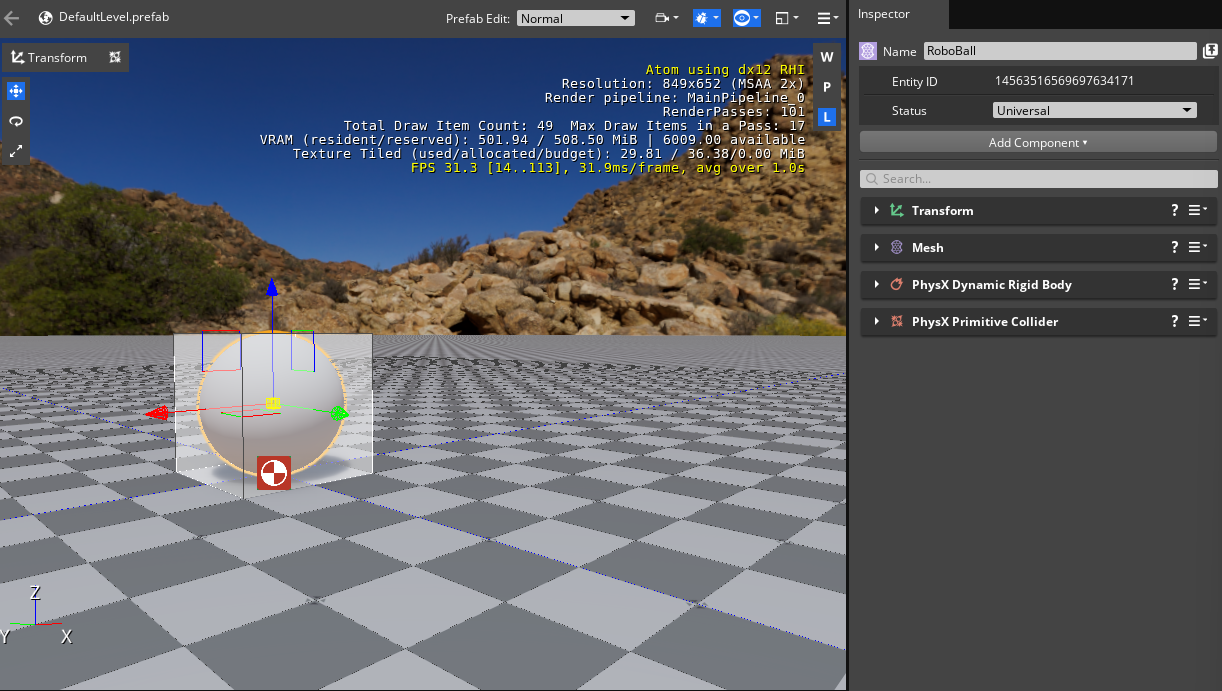
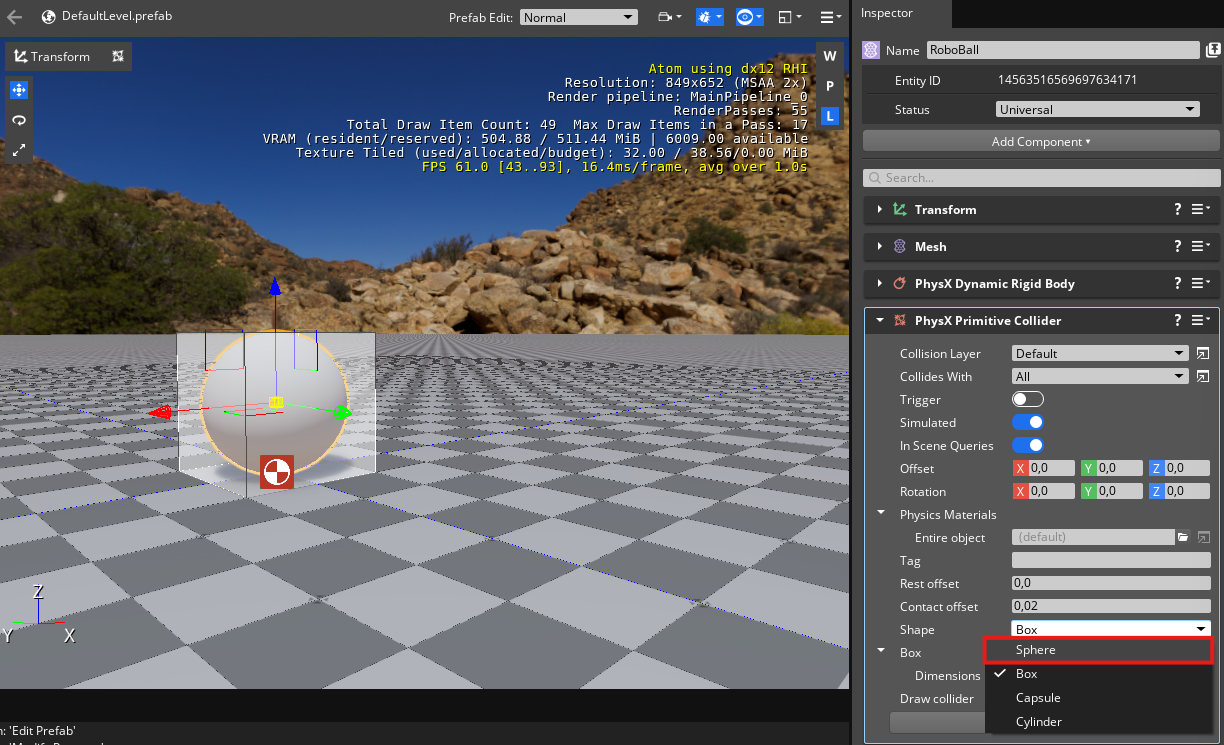
add sphere collider and try out

diff --git a/Doc/roboball_tutorial_2.md b/Doc/roboball_tutorial_2.md
@@ -7,20 +7,53 @@ This page is a continuation of [page 1](roboball_tutorial_1.md), which should ha
 If you don't, do tutorial 1 again or open the project from Projects>Roboball_1 of this repository.
 
 
-## Add Physics
+## Add Physics Component
 
 Let's add some physics to the ball! 
 
 1. Select the Roboball Entity
-1. Add a Physix Primitive Collider component
+1. Add a `Physix Primitive Collider component`
 1. You see a warning that a required component is missing. 
 1. Click `Add Required Component`
-1. Add a Physics Dynamic Rigid Body
+1. Add a `Physix Dynamic Rigid Body`
 
 It should now look like this:
 
 
 ![add_physics](images/add_physics.png)
+
+## Collider
+
+The gray box around the entity is the shape of the collider, which is default a size of a cube. Let's change that to a sphere:
+
+1. In the `Physics Primitive Collider` component
+1. Select `Sphere`
+1. Leave radius at `0,5`
+
+It should now look like this in the viewport
+
+![sphere_collider](images/sphere_collider.png)
+
+Let's test it out! First, let's place the ball a bit higher:
+
+1. Go to transform and put Z to `2,0 M`
+1. Play the game by the play button on the top right or type `ctrl + G`
+
+![small_bounce](images/small_bounce.gif)
+
+It drops with a bounce now! 
+
+> Try disabling the Physicx component and do the same, and you see the ball staying in the air.
+
+## Add a different material
+
+We want to have a constant bounce with this ball, so that it bounces around like a skippy ball. We've got to adjust the material for that.
+
+
+
+
+
+
 
 
 
